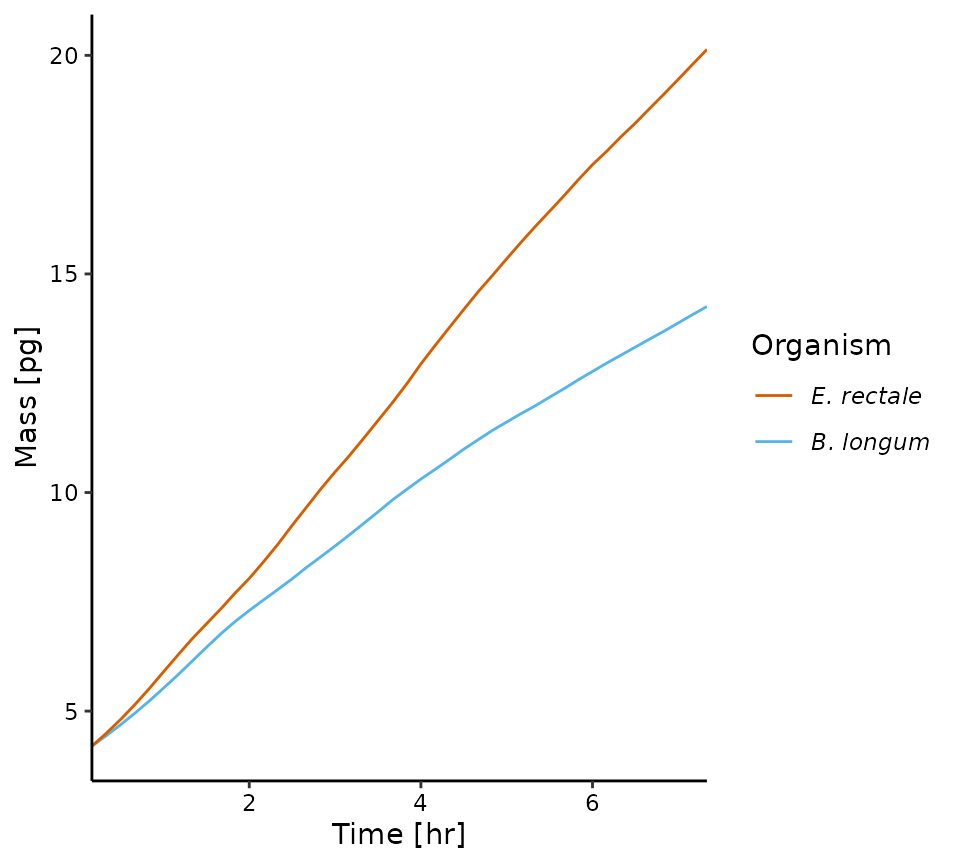
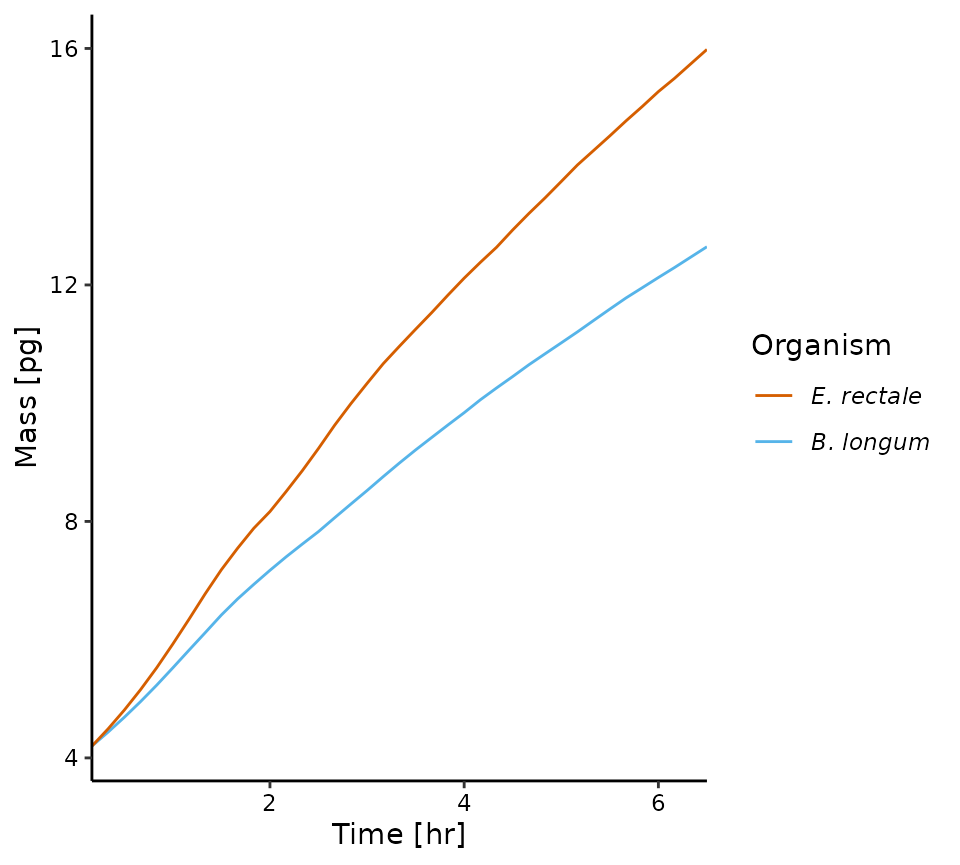
Built site for Eutropia: 0.1.7@eb4cdf3

diff --git a/articles/Crossfeeding.html b/articles/Crossfeeding.html
@@ -63,7 +63,7 @@
       <img src="" class="logo" alt=""><h1>Cross-feeding between two gastrointestinal bacteria</h1>
                         <h4 data-toc-skip class="author">Silvio Waschina</h4>
             
-            <h4 data-toc-skip class="date">2022-01-23</h4>
+            <h4 data-toc-skip class="date">2022-01-31</h4>
       
       
       <div class="d-none name"><code>Crossfeeding.Rmd</code></div>
@@ -78,6 +78,8 @@
 <span class="co">#&gt; Loading required package: Matrix</span>
 <span class="co">#&gt; Loading required package: lattice</span>
 <span class="co">#&gt; Loading required package: hms</span>
+<span class="co">#&gt; Warning in register(): Can't find generic `scale_type` in package ggplot2 to</span>
+<span class="co">#&gt; register S3 method.</span>
 <span class="co">#&gt; Welcome to Eutropia.</span>
 <span class="co">#&gt; Loading required package: glpkAPI</span>
 <span class="co">#&gt; using GLPK version 4.65</span></code></pre></div>
@@ -139,88 +141,78 @@
 <span class="co">#&gt;            E. rectale(4.49) B. longum(4.44)</span>
 <span class="co">#&gt; [00:00:07] Simulation round 2    (30 cells, 8.93 pg dBM)</span>
 <span class="co">#&gt;            E. rectale(4.81) B. longum(4.69)</span>
-<span class="co">#&gt; [00:00:12] Simulation round 3    (30 cells, 9.49 pg dBM)</span>
+<span class="co">#&gt; [00:00:14] Simulation round 3    (30 cells, 9.49 pg dBM)</span>
 <span class="co">#&gt;            E. rectale(5.15) B. longum(4.95)</span>
-<span class="co">#&gt; [00:00:18] Simulation round 4    (30 cells, 10.10 pg dBM)</span>
-<span class="co">#&gt;            E. rectale(5.51) B. longum(5.23)</span>
-<span class="co">#&gt; [00:00:23] Simulation round 5    (30 cells, 10.74 pg dBM)</span>
-<span class="co">#&gt;            E. rectale(5.9) B. longum(5.52)</span>
-<span class="co">#&gt; [00:00:28] Simulation round 6    (30 cells, 11.42 pg dBM)</span>
-<span class="co">#&gt;            E. rectale(6.28) B. longum(5.82)</span>
-<span class="co">#&gt; [00:00:33] Simulation round 7    (30 cells, 12.10 pg dBM)</span>
-<span class="co">#&gt;            E. rectale(6.65) B. longum(6.14)</span>
-<span class="co">#&gt; [00:00:39] Simulation round 8    (30 cells, 12.79 pg dBM)</span>
-<span class="co">#&gt;            E. rectale(6.99) B. longum(6.46)</span>
-<span class="co">#&gt; [00:00:44] Simulation round 9    (30 cells, 13.45 pg dBM)</span>
-<span class="co">#&gt;            E. rectale(7.33) B. longum(6.76)</span>
-<span class="co">#&gt; [00:00:49] Simulation round 10   (30 cells, 14.10 pg dBM)</span>
-<span class="co">#&gt;            E. rectale(7.7) B. longum(7.05)</span>
-<span class="co">#&gt; [00:00:54] Simulation round 11   (30 cells, 14.74 pg dBM)</span>
-<span class="co">#&gt;            E. rectale(8.03) B. longum(7.3)</span>
-<span class="co">#&gt; [00:00:59] Simulation round 12   (35 cells, 15.34 pg dBM)</span>
-<span class="co">#&gt;            E. rectale(8.42) B. longum(7.54)</span>
-<span class="co">#&gt; [00:01:05] Simulation round 13   (36 cells, 15.96 pg dBM)</span>
-<span class="co">#&gt;            E. rectale(8.81) B. longum(7.78)</span>
-<span class="co">#&gt; [00:01:10] Simulation round 14   (40 cells, 16.60 pg dBM)</span>
-<span class="co">#&gt;            E. rectale(9.25) B. longum(8.03)</span>
-<span class="co">#&gt; [00:01:16] Simulation round 15   (44 cells, 17.27 pg dBM)</span>
-<span class="co">#&gt;            E. rectale(9.66) B. longum(8.29)</span>
-<span class="co">#&gt; [00:01:21] Simulation round 16   (47 cells, 17.95 pg dBM)</span>
-<span class="co">#&gt;            E. rectale(10.08) B. longum(8.53)</span>
-<span class="co">#&gt; [00:01:27] Simulation round 17   (50 cells, 18.61 pg dBM)</span>
-<span class="co">#&gt;            E. rectale(10.47) B. longum(8.78)</span>
-<span class="co">#&gt; [00:01:33] Simulation round 18   (51 cells, 19.25 pg dBM)</span>
-<span class="co">#&gt;            E. rectale(10.84) B. longum(9.03)</span>
-<span class="co">#&gt; [00:01:39] Simulation round 19   (53 cells, 19.87 pg dBM)</span>
-<span class="co">#&gt;            E. rectale(11.24) B. longum(9.29)</span>
-<span class="co">#&gt; [00:01:45] Simulation round 20   (56 cells, 20.53 pg dBM)</span>
-<span class="co">#&gt;            E. rectale(11.65) B. longum(9.56)</span>
-<span class="co">#&gt; [00:01:51] Simulation round 21   (58 cells, 21.20 pg dBM)</span>
-<span class="co">#&gt;            E. rectale(12.05) B. longum(9.83)</span>
-<span class="co">#&gt; [00:01:58] Simulation round 22   (60 cells, 21.88 pg dBM)</span>
-<span class="co">#&gt;            E. rectale(12.48) B. longum(10.07)</span>
-<span class="co">#&gt; [00:02:05] Simulation round 23   (63 cells, 22.55 pg dBM)</span>
-<span class="co">#&gt;            E. rectale(12.94) B. longum(10.31)</span>
-<span class="co">#&gt; [00:02:11] Simulation round 24   (64 cells, 23.25 pg dBM)</span>
-<span class="co">#&gt;            E. rectale(13.37) B. longum(10.53)</span>
-<span class="co">#&gt; [00:02:18] Simulation round 25   (66 cells, 23.90 pg dBM)</span>
-<span class="co">#&gt;            E. rectale(13.78) B. longum(10.76)</span>
-<span class="co">#&gt; [00:02:25] Simulation round 26   (68 cells, 24.54 pg dBM)</span>
-<span class="co">#&gt;            E. rectale(14.19) B. longum(10.99)</span>
-<span class="co">#&gt; [00:02:31] Simulation round 27   (68 cells, 25.18 pg dBM)</span>
-<span class="co">#&gt;            E. rectale(14.59) B. longum(11.21)</span>
-<span class="co">#&gt; [00:02:38] Simulation round 28   (68 cells, 25.80 pg dBM)</span>
-<span class="co">#&gt;            E. rectale(14.96) B. longum(11.42)</span>
-<span class="co">#&gt; [00:02:45] Simulation round 29   (68 cells, 26.39 pg dBM)</span>
-<span class="co">#&gt;            E. rectale(15.35) B. longum(11.61)</span>
-<span class="co">#&gt; [00:02:52] Simulation round 30   (69 cells, 26.96 pg dBM)</span>
-<span class="co">#&gt;            E. rectale(15.72) B. longum(11.8)</span>
-<span class="co">#&gt; [00:02:59] Simulation round 31   (69 cells, 27.53 pg dBM)</span>
-<span class="co">#&gt;            E. rectale(16.09) B. longum(11.98)</span>
-<span class="co">#&gt; [00:03:06] Simulation round 32   (71 cells, 28.07 pg dBM)</span>
-<span class="co">#&gt;            E. rectale(16.43) B. longum(12.18)</span>
-<span class="co">#&gt; [00:03:13] Simulation round 33   (73 cells, 28.62 pg dBM)</span>
-<span class="co">#&gt;            E. rectale(16.79) B. longum(12.37)</span>
-<span class="co">#&gt; [00:03:20] Simulation round 34   (75 cells, 29.16 pg dBM)</span>
-<span class="co">#&gt;            E. rectale(17.15) B. longum(12.58)</span>
-<span class="co">#&gt; [00:03:27] Simulation round 35   (75 cells, 29.73 pg dBM)</span>
-<span class="co">#&gt;            E. rectale(17.5) B. longum(12.77)</span>
-<span class="co">#&gt; [00:03:35] Simulation round 36   (75 cells, 30.27 pg dBM)</span>
-<span class="co">#&gt;            E. rectale(17.81) B. longum(12.96)</span>
-<span class="co">#&gt; [00:03:42] Simulation round 37   (76 cells, 30.77 pg dBM)</span>
-<span class="co">#&gt;            E. rectale(18.14) B. longum(13.14)</span>
-<span class="co">#&gt; [00:03:49] Simulation round 38   (76 cells, 31.29 pg dBM)</span>
-<span class="co">#&gt;            E. rectale(18.45) B. longum(13.33)</span>
-<span class="co">#&gt; [00:03:56] Simulation round 39   (78 cells, 31.78 pg dBM)</span>
-<span class="co">#&gt;            E. rectale(18.79) B. longum(13.51)</span>
-<span class="co">#&gt; [00:04:03] Simulation round 40   (81 cells, 32.30 pg dBM)</span>
-<span class="co">#&gt;            E. rectale(19.12) B. longum(13.69)</span>
-<span class="co">#&gt; [00:04:11] Simulation round 41   (82 cells, 32.81 pg dBM)</span>
-<span class="co">#&gt;            E. rectale(19.45) B. longum(13.88)</span>
-<span class="co">#&gt; [00:04:18] Simulation round 42   (83 cells, 33.33 pg dBM)</span>
-<span class="co">#&gt;            E. rectale(19.8) B. longum(14.07)</span>
-<span class="co">#&gt; [00:04:26] Simulation round 43   (84 cells, 33.87 pg dBM)</span>
-<span class="co">#&gt;            E. rectale(20.14) B. longum(14.25)</span></code></pre></div>
+<span class="co">#&gt; [00:00:20] Simulation round 4    (30 cells, 10.10 pg dBM)</span>
+<span class="co">#&gt;            E. rectale(5.52) B. longum(5.23)</span>
+<span class="co">#&gt; [00:00:27] Simulation round 5    (30 cells, 10.75 pg dBM)</span>
+<span class="co">#&gt;            E. rectale(5.93) B. longum(5.52)</span>
+<span class="co">#&gt; [00:00:32] Simulation round 6    (30 cells, 11.45 pg dBM)</span>
+<span class="co">#&gt;            E. rectale(6.35) B. longum(5.82)</span>
+<span class="co">#&gt; [00:00:39] Simulation round 7    (30 cells, 12.17 pg dBM)</span>
+<span class="co">#&gt;            E. rectale(6.78) B. longum(6.12)</span>
+<span class="co">#&gt; [00:00:45] Simulation round 8    (30 cells, 12.89 pg dBM)</span>
+<span class="co">#&gt;            E. rectale(7.18) B. longum(6.42)</span>
+<span class="co">#&gt; [00:00:51] Simulation round 9    (30 cells, 13.60 pg dBM)</span>
+<span class="co">#&gt;            E. rectale(7.55) B. longum(6.69)</span>
+<span class="co">#&gt; [00:00:57] Simulation round 10   (30 cells, 14.23 pg dBM)</span>
+<span class="co">#&gt;            E. rectale(7.88) B. longum(6.93)</span>
+<span class="co">#&gt; [00:01:03] Simulation round 11   (30 cells, 14.82 pg dBM)</span>
+<span class="co">#&gt;            E. rectale(8.17) B. longum(7.17)</span>
+<span class="co">#&gt; [00:01:09] Simulation round 12   (35 cells, 15.34 pg dBM)</span>
+<span class="co">#&gt;            E. rectale(8.51) B. longum(7.4)</span>
+<span class="co">#&gt; [00:01:16] Simulation round 13   (37 cells, 15.91 pg dBM)</span>
+<span class="co">#&gt;            E. rectale(8.86) B. longum(7.62)</span>
+<span class="co">#&gt; [00:01:23] Simulation round 14   (38 cells, 16.48 pg dBM)</span>
+<span class="co">#&gt;            E. rectale(9.23) B. longum(7.83)</span>
+<span class="co">#&gt; [00:01:29] Simulation round 15   (46 cells, 17.06 pg dBM)</span>
+<span class="co">#&gt;            E. rectale(9.63) B. longum(8.06)</span>
+<span class="co">#&gt; [00:01:36] Simulation round 16   (49 cells, 17.69 pg dBM)</span>
+<span class="co">#&gt;            E. rectale(9.99) B. longum(8.29)</span>
+<span class="co">#&gt; [00:01:43] Simulation round 17   (51 cells, 18.29 pg dBM)</span>
+<span class="co">#&gt;            E. rectale(10.33) B. longum(8.52)</span>
+<span class="co">#&gt; [00:01:50] Simulation round 18   (53 cells, 18.86 pg dBM)</span>
+<span class="co">#&gt;            E. rectale(10.67) B. longum(8.76)</span>
+<span class="co">#&gt; [00:01:58] Simulation round 19   (53 cells, 19.43 pg dBM)</span>
+<span class="co">#&gt;            E. rectale(10.96) B. longum(8.99)</span>
+<span class="co">#&gt; [00:02:05] Simulation round 20   (53 cells, 19.95 pg dBM)</span>
+<span class="co">#&gt;            E. rectale(11.25) B. longum(9.21)</span>
+<span class="co">#&gt; [00:02:12] Simulation round 21   (53 cells, 20.46 pg dBM)</span>
+<span class="co">#&gt;            E. rectale(11.53) B. longum(9.42)</span>
+<span class="co">#&gt; [00:02:19] Simulation round 22   (54 cells, 20.95 pg dBM)</span>
+<span class="co">#&gt;            E. rectale(11.83) B. longum(9.63)</span>
+<span class="co">#&gt; [00:02:26] Simulation round 23   (55 cells, 21.46 pg dBM)</span>
+<span class="co">#&gt;            E. rectale(12.11) B. longum(9.84)</span>
+<span class="co">#&gt; [00:02:33] Simulation round 24   (55 cells, 21.95 pg dBM)</span>
+<span class="co">#&gt;            E. rectale(12.38) B. longum(10.06)</span>
+<span class="co">#&gt; [00:02:40] Simulation round 25   (56 cells, 22.44 pg dBM)</span>
+<span class="co">#&gt;            E. rectale(12.64) B. longum(10.26)</span>
+<span class="co">#&gt; [00:02:48] Simulation round 26   (59 cells, 22.89 pg dBM)</span>
+<span class="co">#&gt;            E. rectale(12.93) B. longum(10.45)</span>
+<span class="co">#&gt; [00:02:55] Simulation round 27   (59 cells, 23.38 pg dBM)</span>
+<span class="co">#&gt;            E. rectale(13.21) B. longum(10.65)</span>
+<span class="co">#&gt; [00:03:03] Simulation round 28   (60 cells, 23.86 pg dBM)</span>
+<span class="co">#&gt;            E. rectale(13.47) B. longum(10.84)</span>
+<span class="co">#&gt; [00:03:10] Simulation round 29   (62 cells, 24.31 pg dBM)</span>
+<span class="co">#&gt;            E. rectale(13.75) B. longum(11.02)</span>
+<span class="co">#&gt; [00:03:18] Simulation round 30   (62 cells, 24.77 pg dBM)</span>
+<span class="co">#&gt;            E. rectale(14.03) B. longum(11.21)</span>
+<span class="co">#&gt; [00:03:26] Simulation round 31   (63 cells, 25.24 pg dBM)</span>
+<span class="co">#&gt;            E. rectale(14.27) B. longum(11.4)</span>
+<span class="co">#&gt; [00:03:34] Simulation round 32   (63 cells, 25.67 pg dBM)</span>
+<span class="co">#&gt;            E. rectale(14.52) B. longum(11.59)</span>
+<span class="co">#&gt; [00:03:42] Simulation round 33   (63 cells, 26.11 pg dBM)</span>
+<span class="co">#&gt;            E. rectale(14.77) B. longum(11.78)</span>
+<span class="co">#&gt; [00:03:50] Simulation round 34   (64 cells, 26.55 pg dBM)</span>
+<span class="co">#&gt;            E. rectale(15.02) B. longum(11.95)</span>
+<span class="co">#&gt; [00:03:58] Simulation round 35   (64 cells, 26.97 pg dBM)</span>
+<span class="co">#&gt;            E. rectale(15.27) B. longum(12.13)</span>
+<span class="co">#&gt; [00:04:06] Simulation round 36   (65 cells, 27.40 pg dBM)</span>
+<span class="co">#&gt;            E. rectale(15.5) B. longum(12.29)</span>
+<span class="co">#&gt; [00:04:14] Simulation round 37   (67 cells, 27.79 pg dBM)</span>
+<span class="co">#&gt;            E. rectale(15.74) B. longum(12.47)</span>
+<span class="co">#&gt; [00:04:22] Simulation round 38   (69 cells, 28.21 pg dBM)</span>
+<span class="co">#&gt;            E. rectale(15.98) B. longum(12.65)</span></code></pre></div>
 </div>
 <div class="section level2">
 <h2 id="analyse-the-environment-after-the-simulation">Analyse the environment after the simulation<a class="anchor" aria-label="anchor" href="#analyse-the-environment-after-the-simulation"></a>
@@ -253,102 +245,101 @@
 <div class="sourceCode" id="cb12"><pre class="downlit sourceCode r">
 <code class="sourceCode R"><span class="fu"><a href="../reference/summary_exchanges.html">summary_exchanges</a></span><span class="op">(</span><span class="va">sim</span><span class="op">)</span>
 <span class="co">#&gt;           type    compound     compound.name          fmol</span>
-<span class="co">#&gt;  1: E. rectale cpd00001_e0             Water  1.578156e+01</span>
-<span class="co">#&gt;  2: E. rectale cpd00009_e0         Phosphate -4.594630e-01</span>
-<span class="co">#&gt;  3: E. rectale cpd00027_e0         D-Glucose -7.478722e+00</span>
-<span class="co">#&gt;  4: E. rectale cpd00034_e0              Zn2+ -2.498068e-03</span>
-<span class="co">#&gt;  5: E. rectale cpd00048_e0           Sulfate -2.498068e-03</span>
-<span class="co">#&gt;  6: E. rectale cpd00149_e0              Co2+ -2.498068e-03</span>
-<span class="co">#&gt;  7: E. rectale cpd10516_e0              Fe3+ -2.498068e-03</span>
-<span class="co">#&gt;  8: E. rectale cpd00067_e0                H+  4.904147e+00</span>
-<span class="co">#&gt;  9: E. rectale cpd00971_e0            Sodium  4.047635e-13</span>
-<span class="co">#&gt; 10: E. rectale cpd00063_e0              Ca2+ -2.498068e-03</span>
-<span class="co">#&gt; 11: E. rectale cpd00058_e0              Cu2+ -2.498068e-03</span>
-<span class="co">#&gt; 12: E. rectale cpd10515_e0              Fe2+ -6.036095e-03</span>
-<span class="co">#&gt; 13: E. rectale cpd00205_e0                K+ -2.498068e-03</span>
-<span class="co">#&gt; 14: E. rectale cpd00099_e0               Cl- -2.498068e-03</span>
-<span class="co">#&gt; 15: E. rectale cpd00013_e0          Ammonium -2.937972e+00</span>
-<span class="co">#&gt; 16: E. rectale cpd00011_e0               CO2  9.303749e+00</span>
-<span class="co">#&gt; 17: E. rectale cpd00029_e0           Acetate -4.655565e+00</span>
-<span class="co">#&gt; 18: E. rectale cpd00363_e0           Ethanol  1.052654e+00</span>
-<span class="co">#&gt; 19: E. rectale cpd00239_e0               H2S -7.658539e-02</span>
-<span class="co">#&gt; 20: E. rectale cpd00211_e0          Butyrate  7.275354e+00</span>
-<span class="co">#&gt; 21: E. rectale cpd00030_e0              Mn2+ -2.498068e-03</span>
-<span class="co">#&gt; 22: E. rectale cpd00254_e0              Mg2+ -2.498068e-03</span>
-<span class="co">#&gt; 23:  B. longum cpd00001_e0             Water  4.737318e+00</span>
-<span class="co">#&gt; 24:  B. longum cpd00009_e0         Phosphate -2.544577e-01</span>
-<span class="co">#&gt; 25:  B. longum cpd00030_e0              Mn2+ -1.383469e-03</span>
-<span class="co">#&gt; 26:  B. longum cpd00048_e0           Sulfate -1.383469e-03</span>
-<span class="co">#&gt; 27:  B. longum cpd00149_e0              Co2+ -1.383469e-03</span>
-<span class="co">#&gt; 28:  B. longum cpd00067_e0                H+  1.239096e+01</span>
-<span class="co">#&gt; 29:  B. longum cpd00027_e0         D-Glucose -5.605081e+00</span>
-<span class="co">#&gt; 30:  B. longum cpd00013_e0          Ammonium -1.641790e+00</span>
-<span class="co">#&gt; 31:  B. longum cpd00063_e0              Ca2+ -1.383469e-03</span>
-<span class="co">#&gt; 32:  B. longum cpd00058_e0              Cu2+ -1.383469e-03</span>
-<span class="co">#&gt; 33:  B. longum cpd00205_e0                K+ -1.383469e-03</span>
-<span class="co">#&gt; 34:  B. longum cpd00159_e0         L-Lactate  3.266092e+00</span>
-<span class="co">#&gt; 35:  B. longum cpd00254_e0              Mg2+ -1.383469e-03</span>
-<span class="co">#&gt; 36:  B. longum cpd00011_e0               CO2  5.345023e-01</span>
-<span class="co">#&gt; 37:  B. longum cpd00029_e0           Acetate  7.845063e+00</span>
-<span class="co">#&gt; 38:  B. longum cpd00363_e0           Ethanol -7.030573e-14</span>
-<span class="co">#&gt; 39:  B. longum cpd00239_e0               H2S -4.241416e-02</span>
-<span class="co">#&gt; 40:  B. longum cpd00034_e0              Zn2+ -1.383469e-03</span>
-<span class="co">#&gt; 41:  B. longum cpd00099_e0               Cl- -1.383469e-03</span>
-<span class="co">#&gt; 42:  B. longum cpd10515_e0              Fe2+ -3.342882e-03</span>
-<span class="co">#&gt; 43:  B. longum cpd10516_e0              Fe3+ -1.383469e-03</span>
-<span class="co">#&gt; 44:  B. longum cpd00229_e0    Glycolaldehyde  2.939121e-03</span>
-<span class="co">#&gt; 45:  B. longum cpd03091_e0 5'-Deoxyadenosine  2.939121e-03</span>
-<span class="co">#&gt; 46: E. rectale cpd00281_e0              GABA  3.114656e-14</span>
+<span class="co">#&gt;  1: E. rectale cpd00001_e0             Water  1.176365e+01</span>
+<span class="co">#&gt;  2: E. rectale cpd00009_e0         Phosphate -3.280730e-01</span>
+<span class="co">#&gt;  3: E. rectale cpd00027_e0         D-Glucose -5.116959e+00</span>
+<span class="co">#&gt;  4: E. rectale cpd00034_e0              Zn2+ -1.783710e-03</span>
+<span class="co">#&gt;  5: E. rectale cpd00048_e0           Sulfate -1.783710e-03</span>
+<span class="co">#&gt;  6: E. rectale cpd00149_e0              Co2+ -1.783710e-03</span>
+<span class="co">#&gt;  7: E. rectale cpd10516_e0              Fe3+ -1.783710e-03</span>
+<span class="co">#&gt;  8: E. rectale cpd00067_e0                H+  2.560448e+00</span>
+<span class="co">#&gt;  9: E. rectale cpd00063_e0              Ca2+ -1.783710e-03</span>
+<span class="co">#&gt; 10: E. rectale cpd00058_e0              Cu2+ -1.783710e-03</span>
+<span class="co">#&gt; 11: E. rectale cpd10515_e0              Fe2+ -4.309988e-03</span>
+<span class="co">#&gt; 12: E. rectale cpd00205_e0                K+ -1.783710e-03</span>
+<span class="co">#&gt; 13: E. rectale cpd00099_e0               Cl- -1.783710e-03</span>
+<span class="co">#&gt; 14: E. rectale cpd00013_e0          Ammonium -2.097817e+00</span>
+<span class="co">#&gt; 15: E. rectale cpd00011_e0               CO2  6.824503e+00</span>
+<span class="co">#&gt; 16: E. rectale cpd00029_e0           Acetate -4.760584e+00</span>
+<span class="co">#&gt; 17: E. rectale cpd00363_e0           Ethanol  4.378701e-01</span>
+<span class="co">#&gt; 18: E. rectale cpd00239_e0               H2S -5.468470e-02</span>
+<span class="co">#&gt; 19: E. rectale cpd00211_e0          Butyrate  5.689919e+00</span>
+<span class="co">#&gt; 20: E. rectale cpd00030_e0              Mn2+ -1.783710e-03</span>
+<span class="co">#&gt; 21: E. rectale cpd00254_e0              Mg2+ -1.783710e-03</span>
+<span class="co">#&gt; 22: E. rectale cpd00971_e0            Sodium -1.403050e-14</span>
+<span class="co">#&gt; 23:  B. longum cpd00001_e0             Water  4.393201e+00</span>
+<span class="co">#&gt; 24:  B. longum cpd00009_e0         Phosphate -2.359740e-01</span>
+<span class="co">#&gt; 25:  B. longum cpd00030_e0              Mn2+ -1.282974e-03</span>
+<span class="co">#&gt; 26:  B. longum cpd00048_e0           Sulfate -1.282974e-03</span>
+<span class="co">#&gt; 27:  B. longum cpd00149_e0              Co2+ -1.282974e-03</span>
+<span class="co">#&gt; 28:  B. longum cpd00067_e0                H+  1.149089e+01</span>
+<span class="co">#&gt; 29:  B. longum cpd00027_e0         D-Glucose -5.197930e+00</span>
+<span class="co">#&gt; 30:  B. longum cpd00013_e0          Ammonium -1.522531e+00</span>
+<span class="co">#&gt; 31:  B. longum cpd00063_e0              Ca2+ -1.282974e-03</span>
+<span class="co">#&gt; 32:  B. longum cpd00058_e0              Cu2+ -1.282974e-03</span>
+<span class="co">#&gt; 33:  B. longum cpd00205_e0                K+ -1.282974e-03</span>
+<span class="co">#&gt; 34:  B. longum cpd00159_e0         L-Lactate  3.028844e+00</span>
+<span class="co">#&gt; 35:  B. longum cpd00254_e0              Mg2+ -1.282974e-03</span>
+<span class="co">#&gt; 36:  B. longum cpd00011_e0               CO2  4.956762e-01</span>
+<span class="co">#&gt; 37:  B. longum cpd00029_e0           Acetate  7.275201e+00</span>
+<span class="co">#&gt; 38:  B. longum cpd00363_e0           Ethanol -2.013857e-14</span>
+<span class="co">#&gt; 39:  B. longum cpd00239_e0               H2S -3.933321e-02</span>
+<span class="co">#&gt; 40:  B. longum cpd00034_e0              Zn2+ -1.282974e-03</span>
+<span class="co">#&gt; 41:  B. longum cpd00099_e0               Cl- -1.282974e-03</span>
+<span class="co">#&gt; 42:  B. longum cpd10515_e0              Fe2+ -3.100057e-03</span>
+<span class="co">#&gt; 43:  B. longum cpd10516_e0              Fe3+ -1.282974e-03</span>
+<span class="co">#&gt; 44:  B. longum cpd00229_e0    Glycolaldehyde  2.725624e-03</span>
+<span class="co">#&gt; 45:  B. longum cpd03091_e0 5'-Deoxyadenosine  2.725624e-03</span>
 <span class="co">#&gt;           type    compound     compound.name          fmol</span></code></pre></div>
 <p>In addition, the same information can be retrieved for earlier iterations in the simulation.</p>
 <div class="sourceCode" id="cb13"><pre class="downlit sourceCode r">
 <code class="sourceCode R"><span class="fu"><a href="../reference/summary_exchanges.html">summary_exchanges</a></span><span class="op">(</span><span class="va">sim</span>, iter <span class="op">=</span> <span class="fl">10</span><span class="op">)</span>
 <span class="co">#&gt;           type    compound     compound.name          fmol</span>
-<span class="co">#&gt;  1: E. rectale cpd00001_e0             Water  1.493256e+01</span>
-<span class="co">#&gt;  2: E. rectale cpd00009_e0         Phosphate -4.564723e-01</span>
-<span class="co">#&gt;  3: E. rectale cpd00027_e0         D-Glucose -7.755768e+00</span>
-<span class="co">#&gt;  4: E. rectale cpd00034_e0              Zn2+ -2.481808e-03</span>
-<span class="co">#&gt;  5: E. rectale cpd00048_e0           Sulfate -2.481808e-03</span>
-<span class="co">#&gt;  6: E. rectale cpd00149_e0              Co2+ -2.481808e-03</span>
-<span class="co">#&gt;  7: E. rectale cpd10516_e0              Fe3+ -2.481808e-03</span>
-<span class="co">#&gt;  8: E. rectale cpd00067_e0                H+  6.269950e+00</span>
-<span class="co">#&gt;  9: E. rectale cpd00063_e0              Ca2+ -2.481808e-03</span>
-<span class="co">#&gt; 10: E. rectale cpd00058_e0              Cu2+ -2.481808e-03</span>
-<span class="co">#&gt; 11: E. rectale cpd10515_e0              Fe2+ -5.996806e-03</span>
-<span class="co">#&gt; 12: E. rectale cpd00205_e0                K+ -2.481808e-03</span>
-<span class="co">#&gt; 13: E. rectale cpd00099_e0               Cl- -2.481808e-03</span>
-<span class="co">#&gt; 14: E. rectale cpd00013_e0          Ammonium -2.918849e+00</span>
-<span class="co">#&gt; 15: E. rectale cpd00011_e0               CO2  8.962826e+00</span>
-<span class="co">#&gt; 16: E. rectale cpd00029_e0           Acetate -2.481263e+00</span>
-<span class="co">#&gt; 17: E. rectale cpd00363_e0           Ethanol  1.511711e+00</span>
-<span class="co">#&gt; 18: E. rectale cpd00239_e0               H2S -7.608688e-02</span>
-<span class="co">#&gt; 19: E. rectale cpd00211_e0          Butyrate  6.481725e+00</span>
-<span class="co">#&gt; 20: E. rectale cpd00030_e0              Mn2+ -2.481808e-03</span>
-<span class="co">#&gt; 21: E. rectale cpd00254_e0              Mg2+ -2.481808e-03</span>
-<span class="co">#&gt; 22: E. rectale cpd00971_e0            Sodium -1.336279e-13</span>
-<span class="co">#&gt; 23:  B. longum cpd00001_e0             Water  7.708930e+00</span>
-<span class="co">#&gt; 24:  B. longum cpd00009_e0         Phosphate -4.140731e-01</span>
-<span class="co">#&gt; 25:  B. longum cpd00030_e0              Mn2+ -2.251287e-03</span>
-<span class="co">#&gt; 26:  B. longum cpd00048_e0           Sulfate -2.251287e-03</span>
-<span class="co">#&gt; 27:  B. longum cpd00149_e0              Co2+ -2.251287e-03</span>
-<span class="co">#&gt; 28:  B. longum cpd00067_e0                H+  2.016353e+01</span>
-<span class="co">#&gt; 29:  B. longum cpd00027_e0         D-Glucose -9.121020e+00</span>
-<span class="co">#&gt; 30:  B. longum cpd00013_e0          Ammonium -2.671647e+00</span>
-<span class="co">#&gt; 31:  B. longum cpd00063_e0              Ca2+ -2.251287e-03</span>
-<span class="co">#&gt; 32:  B. longum cpd00058_e0              Cu2+ -2.251287e-03</span>
-<span class="co">#&gt; 33:  B. longum cpd00205_e0                K+ -2.251287e-03</span>
-<span class="co">#&gt; 34:  B. longum cpd00159_e0         L-Lactate  5.314837e+00</span>
-<span class="co">#&gt; 35:  B. longum cpd00254_e0              Mg2+ -2.251287e-03</span>
-<span class="co">#&gt; 36:  B. longum cpd00011_e0               CO2  8.697833e-01</span>
-<span class="co">#&gt; 37:  B. longum cpd00029_e0           Acetate  1.276609e+01</span>
-<span class="co">#&gt; 38:  B. longum cpd00363_e0           Ethanol  3.465356e-14</span>
-<span class="co">#&gt; 39:  B. longum cpd00239_e0               H2S -6.901960e-02</span>
-<span class="co">#&gt; 40:  B. longum cpd00034_e0              Zn2+ -2.251287e-03</span>
-<span class="co">#&gt; 41:  B. longum cpd00099_e0               Cl- -2.251287e-03</span>
-<span class="co">#&gt; 42:  B. longum cpd10515_e0              Fe2+ -5.439796e-03</span>
-<span class="co">#&gt; 43:  B. longum cpd10516_e0              Fe3+ -2.251287e-03</span>
-<span class="co">#&gt; 44:  B. longum cpd00229_e0    Glycolaldehyde  4.782764e-03</span>
-<span class="co">#&gt; 45:  B. longum cpd03091_e0 5'-Deoxyadenosine  4.782764e-03</span>
+<span class="co">#&gt;  1: E. rectale cpd00001_e0             Water  1.651930e+01</span>
+<span class="co">#&gt;  2: E. rectale cpd00009_e0         Phosphate -4.869544e-01</span>
+<span class="co">#&gt;  3: E. rectale cpd00027_e0         D-Glucose -7.980216e+00</span>
+<span class="co">#&gt;  4: E. rectale cpd00034_e0              Zn2+ -2.647537e-03</span>
+<span class="co">#&gt;  5: E. rectale cpd00048_e0           Sulfate -2.647537e-03</span>
+<span class="co">#&gt;  6: E. rectale cpd00149_e0              Co2+ -2.647537e-03</span>
+<span class="co">#&gt;  7: E. rectale cpd10516_e0              Fe3+ -2.647537e-03</span>
+<span class="co">#&gt;  8: E. rectale cpd00067_e0                H+  5.512140e+00</span>
+<span class="co">#&gt;  9: E. rectale cpd00063_e0              Ca2+ -2.647537e-03</span>
+<span class="co">#&gt; 10: E. rectale cpd00058_e0              Cu2+ -2.647537e-03</span>
+<span class="co">#&gt; 11: E. rectale cpd10515_e0              Fe2+ -6.397258e-03</span>
+<span class="co">#&gt; 12: E. rectale cpd00205_e0                K+ -2.647537e-03</span>
+<span class="co">#&gt; 13: E. rectale cpd00099_e0               Cl- -2.647537e-03</span>
+<span class="co">#&gt; 14: E. rectale cpd00013_e0          Ammonium -3.113763e+00</span>
+<span class="co">#&gt; 15: E. rectale cpd00011_e0               CO2  9.758750e+00</span>
+<span class="co">#&gt; 16: E. rectale cpd00029_e0           Acetate -4.413034e+00</span>
+<span class="co">#&gt; 17: E. rectale cpd00363_e0           Ethanol  1.220492e+00</span>
+<span class="co">#&gt; 18: E. rectale cpd00239_e0               H2S -8.116778e-02</span>
+<span class="co">#&gt; 19: E. rectale cpd00211_e0          Butyrate  7.504134e+00</span>
+<span class="co">#&gt; 20: E. rectale cpd00030_e0              Mn2+ -2.647537e-03</span>
+<span class="co">#&gt; 21: E. rectale cpd00254_e0              Mg2+ -2.647537e-03</span>
+<span class="co">#&gt; 22: E. rectale cpd00971_e0            Sodium -1.417927e-13</span>
+<span class="co">#&gt; 23:  B. longum cpd00001_e0             Water  6.764941e+00</span>
+<span class="co">#&gt; 24:  B. longum cpd00009_e0         Phosphate -3.633683e-01</span>
+<span class="co">#&gt; 25:  B. longum cpd00030_e0              Mn2+ -1.975608e-03</span>
+<span class="co">#&gt; 26:  B. longum cpd00048_e0           Sulfate -1.975608e-03</span>
+<span class="co">#&gt; 27:  B. longum cpd00149_e0              Co2+ -1.975608e-03</span>
+<span class="co">#&gt; 28:  B. longum cpd00067_e0                H+  1.769443e+01</span>
+<span class="co">#&gt; 29:  B. longum cpd00027_e0         D-Glucose -8.004115e+00</span>
+<span class="co">#&gt; 30:  B. longum cpd00013_e0          Ammonium -2.344494e+00</span>
+<span class="co">#&gt; 31:  B. longum cpd00063_e0              Ca2+ -1.975608e-03</span>
+<span class="co">#&gt; 32:  B. longum cpd00058_e0              Cu2+ -1.975608e-03</span>
+<span class="co">#&gt; 33:  B. longum cpd00205_e0                K+ -1.975608e-03</span>
+<span class="co">#&gt; 34:  B. longum cpd00159_e0         L-Lactate  4.664014e+00</span>
+<span class="co">#&gt; 35:  B. longum cpd00254_e0              Mg2+ -1.975608e-03</span>
+<span class="co">#&gt; 36:  B. longum cpd00011_e0               CO2  7.632749e-01</span>
+<span class="co">#&gt; 37:  B. longum cpd00029_e0           Acetate  1.120283e+01</span>
+<span class="co">#&gt; 38:  B. longum cpd00363_e0           Ethanol -2.646671e-14</span>
+<span class="co">#&gt; 39:  B. longum cpd00239_e0               H2S -6.056788e-02</span>
+<span class="co">#&gt; 40:  B. longum cpd00034_e0              Zn2+ -1.975608e-03</span>
+<span class="co">#&gt; 41:  B. longum cpd00099_e0               Cl- -1.975608e-03</span>
+<span class="co">#&gt; 42:  B. longum cpd10515_e0              Fe2+ -4.773672e-03</span>
+<span class="co">#&gt; 43:  B. longum cpd10516_e0              Fe3+ -1.975608e-03</span>
+<span class="co">#&gt; 44:  B. longum cpd00229_e0    Glycolaldehyde  4.197096e-03</span>
+<span class="co">#&gt; 45:  B. longum cpd03091_e0 5'-Deoxyadenosine  4.197096e-03</span>
 <span class="co">#&gt;           type    compound     compound.name          fmol</span></code></pre></div>
 <p>The results should clearly show that acetate is produced by <em>B. longum</em> and consumed by <em>E. rectale</em>.</p>
 </div>
